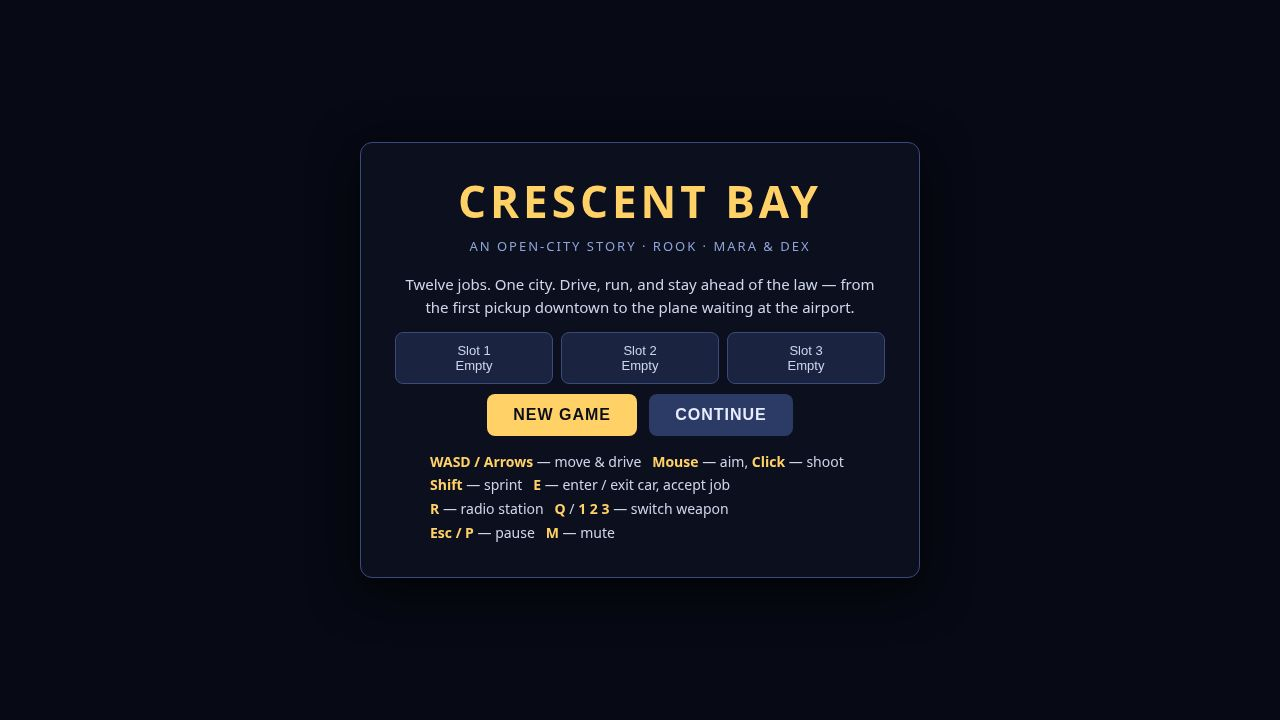
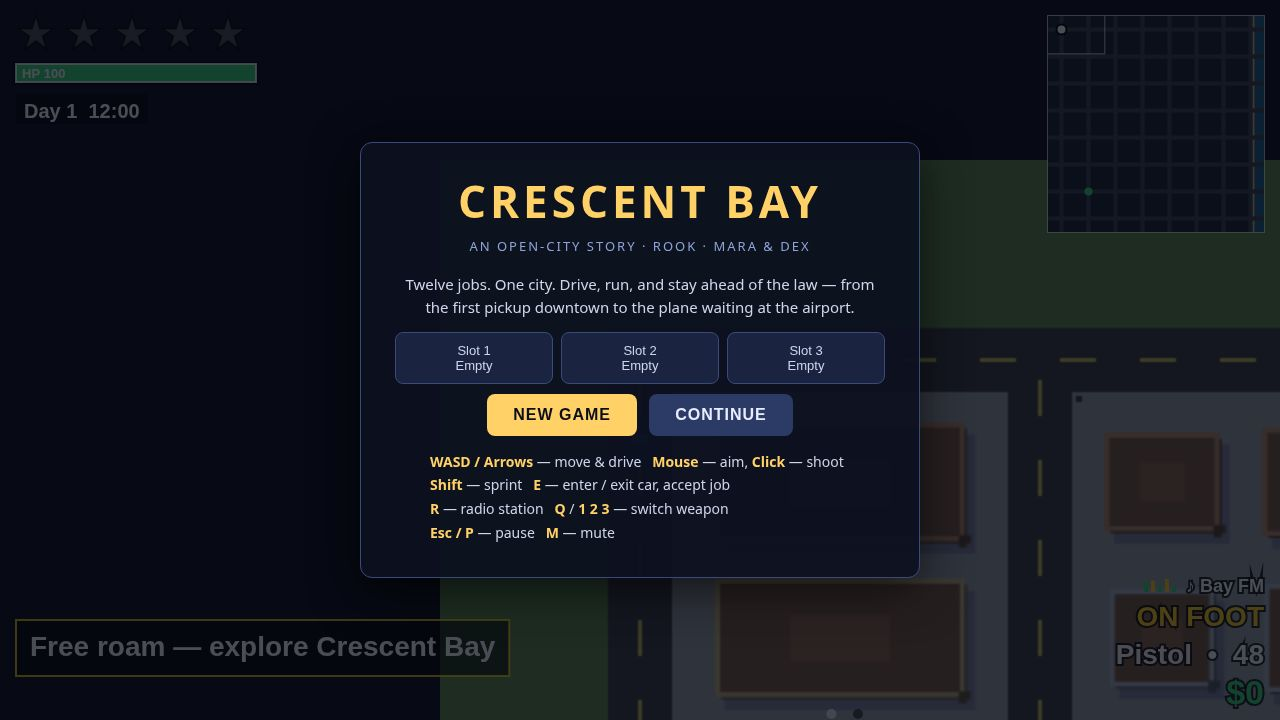
R2 playtest: arc 1/12 (m2 chase FAIL), screenshots + contact sheet + dossier PASS
Arc run 3 + run 4 both 1/12 (m1@63s/64s, m2 timeout twice, 0 console
errors). m2 probe: 0/4 hits in 220s, closest approach 115 (need <70),
courier constant 380 u/s, player mostly crawling 1-54 u/s stuck at
junctions — route recompute every ~0.3s re-triggers brake/rotate logic.
Screenshots 4 poses seed 7 read visually (56-65 KiB each), contact
sheet + grayscale twin + 2s readability PASS, dossier 493,286 bytes
(cap 1,450,000), smoke 62/62 + 43/43.

diff --git a/playtest/r2-arc-screenshots-dossier.md b/playtest/r2-arc-screenshots-dossier.md
@@ -1,0 +1,115 @@
+# Playtest R2 — Arc + Screenshots + Dossier (24 Nov 2026)
+
+Recording R2 `01a20b10-c24e-7096-87e8-5fd3579b7a65`. Suite 1 (cold 8/8, edge 9/9,
+weapon-switch 11/11, FPS 59.3) in `playtest/r2-cold-edge-weapon-fps.md`.
+
+## Ringkasan gate
+
+| Gate | Hasil |
+|---|---|
+| COLD 8/8 | PASS (Suite 1) |
+| EDGE 9/9 incl. weapon-switch | PASS (Suite 1) |
+| ARC 12/12 | **FAIL — 1/12** (lihat di bawah) |
+| FPS ≥ 59 | 59.3 PASS (Suite 1) |
+| 0 console/page error semua run | PASS (arc run 3 + run 4: 0 error) |
+| Screenshot 4 pose seed 7, ≤200 KiB, dibaca visual | PASS |
+| Contact sheet + grayscale + readability 2 detik | PASS |
+| Dossier ≤ 1.450.000 byte | PASS — 493.286 byte |
+| Smoke regresi | 62/62 + 43/43 PASS |
+
+## ARC — FAIL 1/12 (m2 chase)
+
+Dua full-arc run (cap 720 detik tiap run, 0 console error):
+
+- **Run 3** (commit `16bf8fb`, setelah fix rem): `completed 1/12: m1; per-mission: m1@63s`.
+- **Run 4** (commit `a64c6fe`, setelah fix ram): `completed 1/12: m1; per-mission: m1@64s`.
+
+m1 lulus cepat dan stabil di kedua run. m2 gagal dua kali lewat timeout
+300 detik per percobaan (dua percobaan dalam tiap run). m3–m12 tidak pernah
+tercapai, jadi tidak ada data lulus/gagal untuk mereka — arc berhenti di m2.
+
+### Perbaikan yang sudah dipakai (2x, sesuai batas tugas)
+
+1. **Rem sebelum belokan tajam** (`16bf8fb`, `driveToward` di
+   `game/src/autopilot.js`): mobil tiba di persimpangan pasar ~178 u/s dan
+   masuk zona mati — terlalu cepat untuk cabang stop-and-rotate (>140) tapi
+   di bawah ambang rem lama (>180) — lalu menabrak gedung di utara
+   persimpangan dan terjebak (HP 46 → 2 dalam 47 detik). Sekarang rem lebih
+   awal untuk belokan tajam DI waypoint (kaki masuk vs kaki keluar, <260
+   unit) dan untuk belokan tajam apa pun di atas 120 u/s. Hasil: m1 63–64
+   detik, tidak pernah macet lagi.
+2. **Mode ram untuk m2** (`a64c6fe`, `driveToward(..., { ram })`):
+   tabrakan hanya terhitung di atas 120 u/s, tapi rem kedatangan
+   (`closeIn`, ≤60 dalam 140 unit dari target) membuat mobil selalu tiba
+   di kurir terlalu pelan. Mode ram menahan gas penuh dan melewati rem
+   kedatangan + rem belokan dalam 260 unit dari kurir. Hasil: m2 tetap
+   gagal — lihat diagnosis.
+
+### Diagnosis m2 (probe khusus, `tools/probe-m2-diag.mjs`, sudah dihapus)
+
+Chase 220 detik dengan autopilot (`?autopilot=1&mission=m2`):
+
+- **Hit: 0/4. Jarak terdekat pemain–kurir: 115 unit (butuh <70).**
+  0 sampel dalam 70 unit. Kurir konstan 380 u/s, tidak pernah melambat
+  (0 hit → cruise tidak pernah dipotong 55%).
+- **Mobil pemain kebanyakan merangkak 1–54 u/s**, terjebak ~30 detik di
+  tiap klaster persimpangan ((1750,950), (1030,1010), (1050,1460)),
+  dengan semburan sesekali sampai 415 u/s. Kurir terus kabur ke sudut
+  jauh peta ((200,2966), (2961,3000), (2965,200)).
+- **Hipotesis akar masalah** (untuk koordinator): rute jalan dihitung
+  ulang tiap ~0,3 detik karena kurir bergerak 380 u/s, dan tiap hitung
+  ulang memicu lagi logika rem-sebelum-belokan-tajam + rotate-in-place —
+  mobil menghabiskan chase dengan mengerem/berputar di tempat, bukan
+  mengemudi. Perbaikan berikutnya (di luar jangkauan tugas ini) perlu
+  mengejar kurir dengan rute yang stabil / aim langsung, bukan
+  route-recompute tiap frame.
+
+Repro: `node tools/playtest.mjs --mode arc` → m1 selesai ~63 detik,
+m2 stage 0 sampai timeout 300 detik, restart, timeout lagi, run berakhir
+1/12 pada cap 720 detik. 0 console error.
+
+## Screenshot (seed 7, dibaca visual)
+
+| File | Ukuran | Isi (dilihat) |
+|---|---|---|
+| `screenshots/1-cover.jpg` | 64.807 B | Kota siang top-down, jalan/gedung/air, minimap, HUD (3 bintang, HP 100, Day 1 12:00), kartu M7 "Highway Heat", ON FOOT / Pistol • 48 / $0, Bay FM. Terbaca, bukan frame hitam. |
+| `screenshots/2-mission.jpg` | 58.509 B | Dialog misi "MARA / CRESCENT JOB" + teks brief + ACCEPT (E) / NOT NOW di atas kota yang diredupkan; kartu M8. Terbaca. |
+| `screenshots/3-night.jpg` | 56.017 B | Sama dengan cover tapi malam: 22:00, 4 bintang, palet gelap, cahaya headlight. Terbaca. |
+| `screenshots/4-start.jpg` | 63.886 B | Title "CRESCENT BAY / AN OPEN-CITY STORY • ROOK • MARA & DEX", 3 slot save Empty, NEW GAME / CONTINUE, daftar kontrol, "Free roam — explore Crescent Bay", kota di belakang overlay. Terbaca penuh. |
+
+Semua ≤200 KiB (cap 204.800).
+
+## Contact sheet
+
+- `playtest/contact-sheet.jpg` 768×480, 44.366 B (colour).
+- `playtest/contact-sheet-gray.jpg` 768×480, 39.068 B (grayscale twin).
+- **Uji keterbacaan 2 detik: PASS.** Sekilas: cover = kota siang + "Day 1
+  12:00" + minimap + "Bay FM / ON FOOT"; baris bawah = dialog
+  "CRESCENT JOB", kota malam, title "CRESCENT BAY" — ketiganya teridentifikasi
+  tanpa warna (grayscale tetap terbaca: blok gedung, jalan, minimap, judul).
+- Sheet disimpan di `playtest/`, BUKAN `screenshots/`, supaya dossier
+  tetap berisi tepat 4 gambar (cap buildDossier).
+
+## Dossier
+
+`MAKEFUN_OUTPUT_DIR=/tmp/dossier-r2 node main.ts` → sukses, tanpa warning:
+- `dossier.json`: **493.286 byte** (cap 1.450.000 — 34%).
+- `game/`: 23 file, 287.832 byte.
+- `screenshots/`: tepat 4 file (poses seed 7).
+
+## Regresi
+
+- `tools/smoke-b6.mjs`: **62/62**.
+- `tools/smoke-b3.mjs`: **43/43**.
+- Setelah commit `16bf8fb` dan `a64c6fe` (keduanya smoke hijau).
+
+## HEAD
+
+`a64c6fe` — "R2 playtest: ram mode for m2 chase (driveToward braked away every hit)".
+
+## Keputusan untuk koordinator
+
+READY **TIDAK** — gate ARC 1/12 (m2 chase, 0/4 hit, jarak terdekat 115).
+Semua gate lain PASS. Opsi: (a) submit apa adanya dengan arc 1/12,
+(b) satu ronde perbaikan chase lagi dengan hipotesis di atas
+(rute stabil / aim langsung ke kurir, bukan recompute tiap frame).
